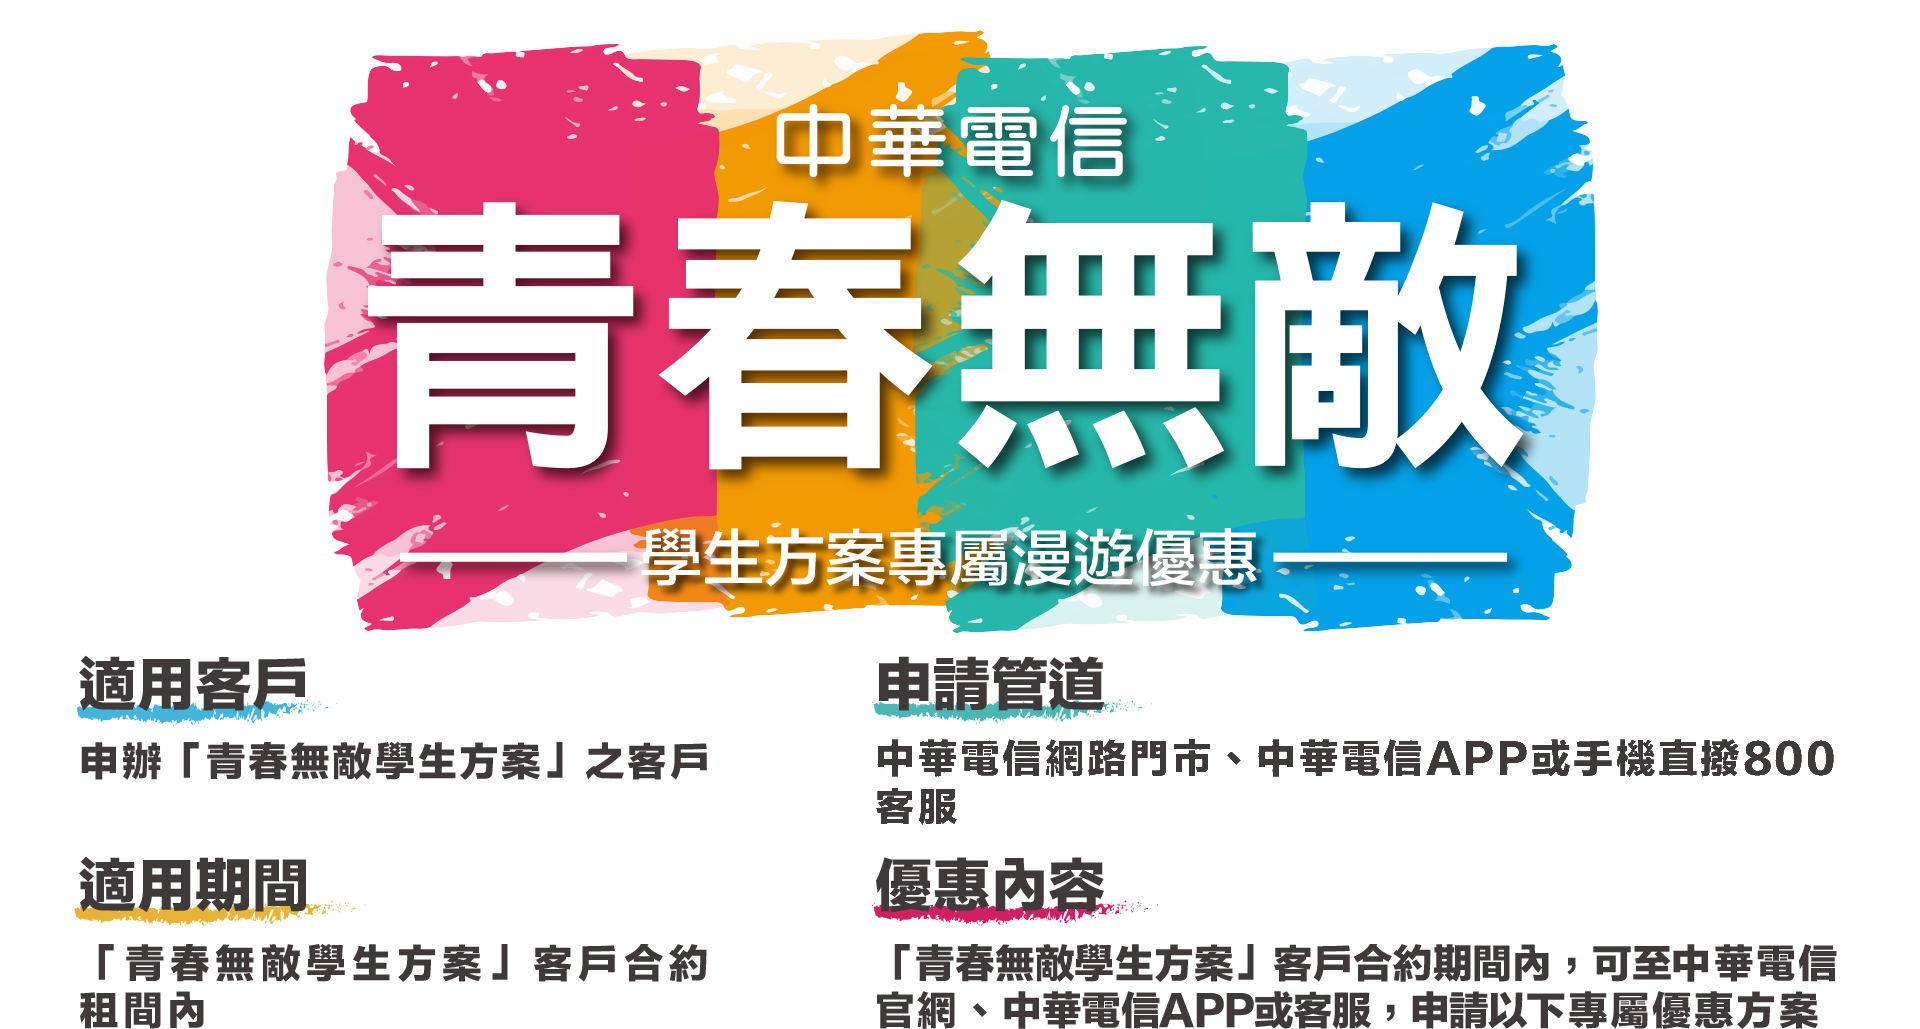
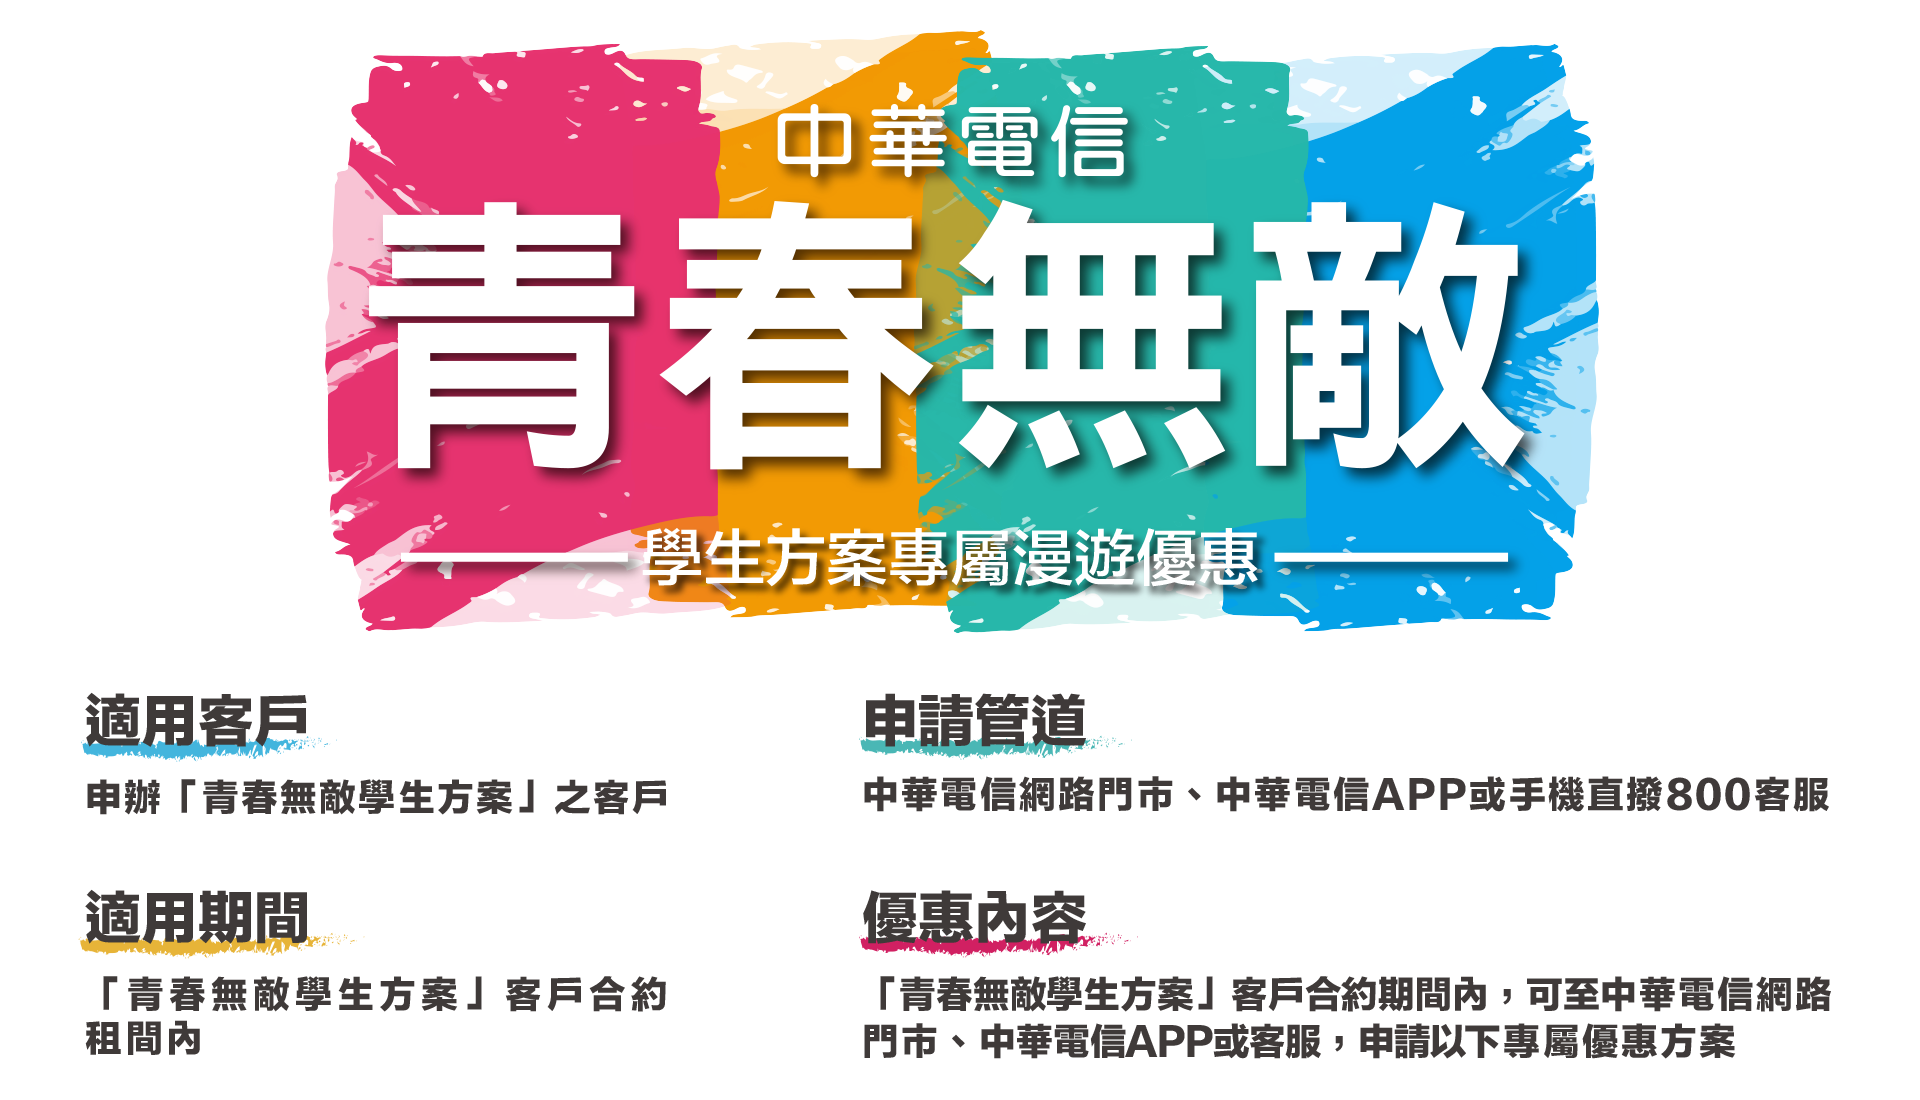
國際漫遊
更新學生方案 官網改網路門市

Changed region(s): [[0.1562, 0.0311, 0.9688, 1.0], [0.0312, 0.8086, 0.375, 1.0], [0.0312, 0.622, 0.375, 0.7775]]

diff --git a/demo/international/roamingforstu/index.html b/demo/international/roamingforstu/index.html
@@ -19,11 +19,11 @@ j=d.createElement(s),dl=l!='dataLayer'?'&l='+l:'';j.async=true;j.src=
  <!-- og example tag-->
     <meta property="og:url" content="https://www.cht.com.tw/home/campaign/roamingforstu/index.html">
     <meta property="og:type" content="article">
-    <meta property="og:title" content="青春無敵!學生方案專屬漫遊優惠 | 中華電信官網 CHT.com.tw">
-    <meta property="og:description" content="學生方案專屬漫遊優惠開始囉!5日上網吃到飽或1GB輕量型漫遊任您選擇，適用日本、韓國、香港、澳門、新加坡、馬來西亞、泰國、印尼、菲律賓、柬埔寨等，免還機免換卡最方便!。">
+    <meta property="og:title" content="青春無敵!學生方案專屬漫遊優惠 | 中華電信網路門市 CHT.com.tw">
+    <meta property="og:description" content="學生方案專屬漫遊優惠開始囉!5日上網吃到飽或1GB輕量型漫遊任您選擇，適用中國、日本、韓國、香港、澳門、新加坡、馬來西亞、泰國、印尼、菲律賓、柬埔寨等，免還機免換卡最方便!。">
     <meta property="og:image" content="https://www.cht.com.tw/home/campaign/roamingforstu/img/KV-s.png">
     <meta property="og:site_name" content="中華電信網路門市"/>
-	<title>青春無敵!學生方案專屬漫遊優惠 | 中華電信官網 CHT.com.tw</title>
+	<title>青春無敵!學生方案專屬漫遊優惠 | 中華電信網路門市 CHT.com.tw</title>
     <!-- library-->
     <link href="https://cdn.jsdelivr.net/jquery.tooltipster/4.2.5/css/tooltipster.bundle.min.css" rel="stylesheet">
     <link href="https://cdnjs.cloudflare.com/ajax/libs/OwlCarousel2/2.2.1/assets/owl.carousel.min.css" rel="stylesheet">
@@ -86,7 +86,6 @@ j=d.createElement(s),dl=l!='dataLayer'?'&l='+l:'';j.async=true;j.src=
 		}
 		#wrapper .KV{
 		width:100%;
-		margin:0 0 3em 0;
 		}
 		#wrapper .KV img{
 		width:100%
@@ -318,6 +317,6 @@ height="0" width="0" style="display:none;visibility:hidden"></iframe></noscript>
     });
 	
 </script>
-<!-- 180816_eShop -->
+<!-- 190611_eShop -->
 
 </html>
